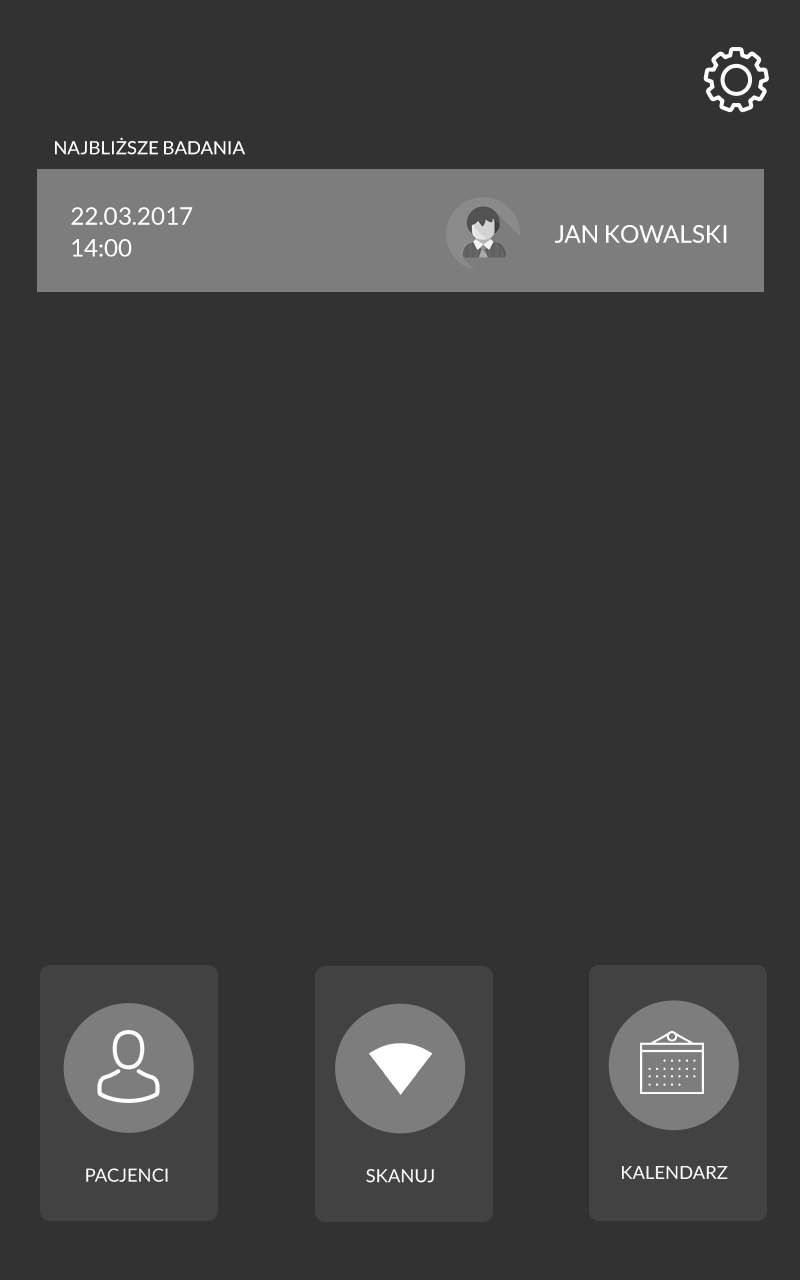
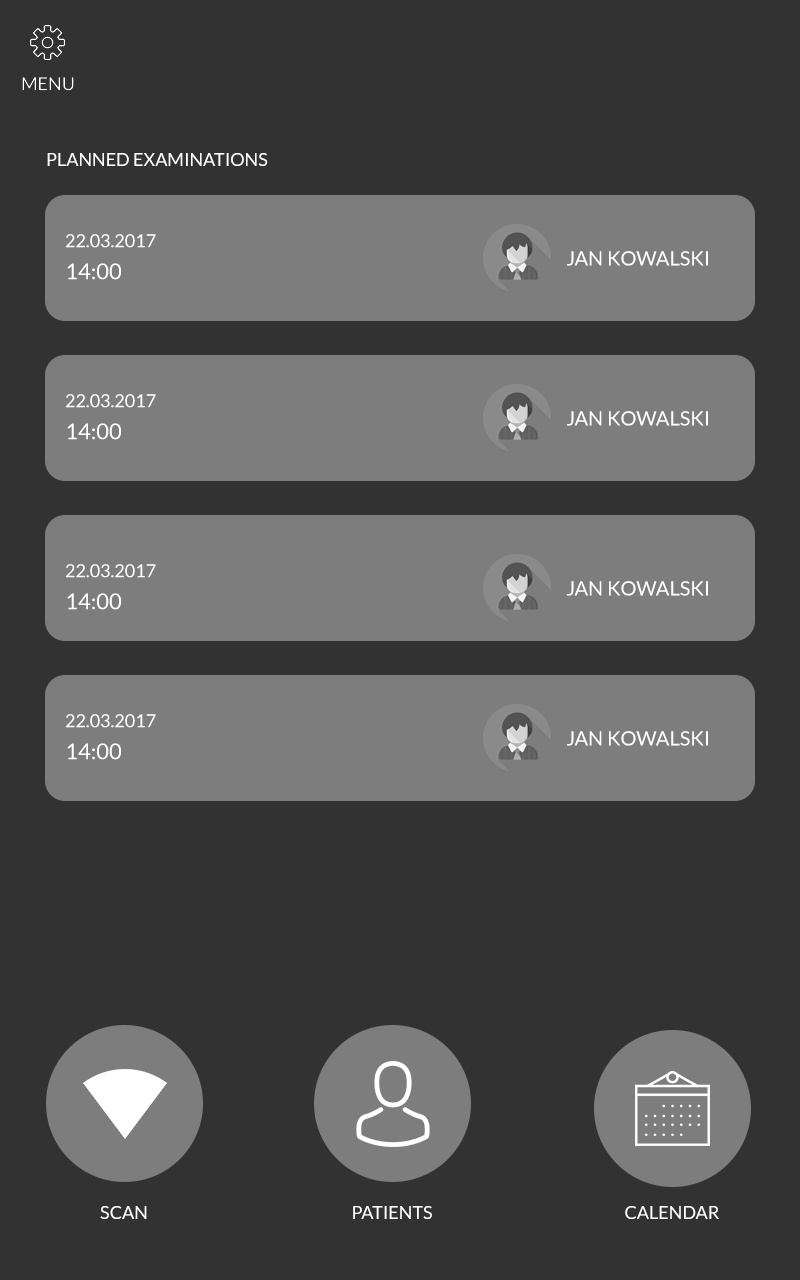
added new StartPage image and implemented settings menu

diff --git a/USG_tablet_UI/Pages/StartPage.xaml b/USG_tablet_UI/Pages/StartPage.xaml
@@ -9,11 +9,10 @@
 
     <Grid>
         <Image HorizontalAlignment="Left" Height="1280" Margin="0,0,0,0" VerticalAlignment="Top" Width="800" Source="pack://application:,,,/gfx/start.png"/>
-        <Button x:Name="btnDanePacjentow" Content="Dane Pacjentów" HorizontalAlignment="Left" Margin="46,969,0,0" VerticalAlignment="Top" Width="165" Height="242" Click="btnDanePacjentow_Click" Opacity="0"/>
-        <Button x:Name="btnUrzadzenia" Content="Urządzenia" HorizontalAlignment="Left" Margin="328,972,0,0" VerticalAlignment="Top" Width="165" Height="242" Click="btnUrzadzenia_Click" Opacity="0"/>
-        <Button x:Name="btnKalendarz" Content="Kalendarz" HorizontalAlignment="Left" Margin="592,972,0,0" VerticalAlignment="Top" Width="167" Height="242" Click="btnKalendarz_Click" Opacity="0"/>
-        <Label x:Name="lblUsername" Content="Maria Iksiska" HorizontalAlignment="Left" Margin="61,54,0,0" VerticalAlignment="Top" Width="244" MouseDown="lblUsername_MouseDown" FontSize="22" Foreground="#DDFFFFFF"/>
-        <Button x:Name="placeholderTrybik" Content="TRYBIK" HorizontalAlignment="Left" Margin="698,45,0,0" VerticalAlignment="Top" Width="73" Click="placeholderTrybik_Click" Height="74" Opacity="0"/>
+        <Button x:Name="btnDanePacjentow" Content="Dane Pacjentów" HorizontalAlignment="Left" Margin="44,1004,0,0" VerticalAlignment="Top" Width="165" Height="242" Click="btnDanePacjentow_Click" Opacity="0"/>
+        <Button x:Name="btnUrzadzenia" Content="Urządzenia" HorizontalAlignment="Left" Margin="307,1004,0,0" VerticalAlignment="Top" Width="165" Height="242" Click="btnUrzadzenia_Click" Opacity="0"/>
+        <Button x:Name="btnKalendarz" Content="Kalendarz" HorizontalAlignment="Left" Margin="589,1004,0,0" VerticalAlignment="Top" Width="167" Height="242" Click="btnKalendarz_Click" Opacity="0"/>
+        <Button x:Name="placeholderTrybik" Content="TRYBIK" HorizontalAlignment="Left" Margin="13,15,0,0" VerticalAlignment="Top" Width="92" Click="placeholderTrybik_Click" Height="93" Opacity="0"/>
 
     </Grid>
 </Page>

diff --git a/USG_tablet_UI/Windows/SettingsGeneralWindow.xaml b/USG_tablet_UI/Windows/SettingsGeneralWindow.xaml
@@ -8,6 +8,8 @@
         BorderThickness="0" 
         Deactivated="Window_Deactivated" >
     <Grid>
-        <Button x:Name="btnClose" Content="Close" HorizontalAlignment="Left" Margin="78,50,0,0" VerticalAlignment="Top" Width="117" Height="54" Click="btnClose_Click"/>
+        <Image HorizontalAlignment="Left" Height="1280" Margin="0,0,-520,0" VerticalAlignment="Top" Width="280" Source="pack://application:,,,/gfx/settingsSide.png"/>
+        <Button x:Name="btnClose" Content="Close" HorizontalAlignment="Left" Margin="30,130,0,0" VerticalAlignment="Top" Width="181" Height="44" Click="btnClose_Click" Opacity="0"/>
+        <Button x:Name="btnProfile" Content="Button" HorizontalAlignment="Left" Margin="18,23,0,0" VerticalAlignment="Top" Width="207" Opacity="0" Height="77" Click="btnProfile_Click"/>
     </Grid>
 </Window>

diff --git a/USG_tablet_UI/Windows/MainWindow.xaml b/USG_tablet_UI/Windows/MainWindow.xaml
@@ -14,7 +14,7 @@
         WindowStyle="None"
         WindowState= "Maximized" >
     <Grid>
-        <Frame Name="NavigationFrame" NavigationUIVisibility="Hidden" Margin="0,0,0,0" />
+        <Frame Name="NavigationFrame" NavigationUIVisibility="Hidden" Margin="0,0,0,0" FontFamily="Roboto" />
     </Grid>
 
 </Window>

diff --git a/USG_tablet_UI/Windows/SettingsGeneralWindow.xaml.cs b/USG_tablet_UI/Windows/SettingsGeneralWindow.xaml.cs
@@ -46,5 +46,12 @@ namespace USG_tablet_UI
             }
         }
 
+        private void btnProfile_Click(object sender, RoutedEventArgs e)
+        {
+            GlobalSettings.mainWindow.NavigationFrame.NavigationService.Navigate(new Uri("Pages\\PanelUzytkownika.xaml", UriKind.Relative));
+            GlobalSettings.sideMenuVisible = false;
+            this.Close();
+        }
+
     }
 }
